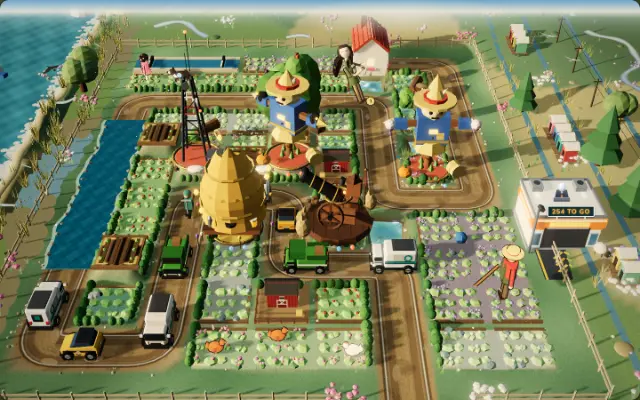
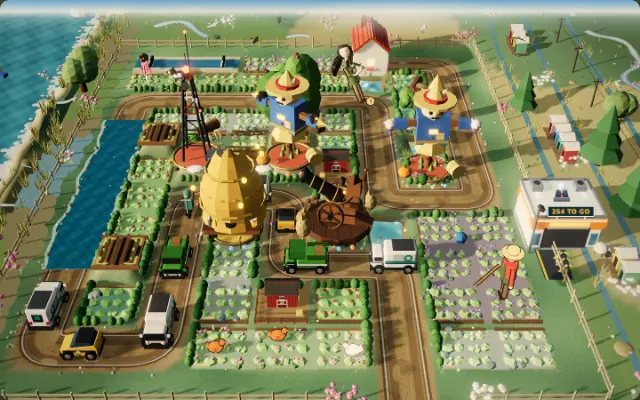
736 slice 1: Hedgerow 2D late waves: a vehicle a tower sprite covers is drawn again over it (l34's lorries under the hedge and duck pond); every '+N' and text float 12 px inside the field, clear of depots, never rising into a lane badge; a gain with nowhere clear joins the nearest; at most 6 numbers
Claude-Session: https://claude.ai/code/session_01SimvMRM53opvH7rkUTpe2W

diff --git a/games/hedgerow/src/render.ts b/games/hedgerow/src/render.ts
@@ -114,6 +114,9 @@ const GAIN_MERGE_PX = 120;
 const GAIN_HOLD = 0.4;
 const GAIN_LIFE = 0.7;
 const GAIN_MIN_PX = 14;
+/** Plan item 736: every number and text float stands this far (CSS px) inside the field's edge, at most MAX_FLOATS live. */
+const FIELD_MARGIN = 12;
+const MAX_FLOATS = 6;
 /** Classic levels' vehicles have no rung colour: a tint per type for the swarm badge's make-up bar. */
 /** Plan item 256: queued vehicles at the gate drawn larger than on the lane (they're parked, the round's cast). */
 const QUEUE_SCALE = 1.4;
@@ -850,6 +853,18 @@ export class Renderer {
     return this.gainDrawn.map((g) => ({ ...g }));
   }
 
+  /** Plan item 736 (tests): the text floats as drawn last frame (CSS px from the canvas corner). */
+  floatRects(): Array<{ x: number; y: number; w: number; h: number; text: string }> {
+    return this.floatDrawn.map((f) => ({ ...f }));
+  }
+
+  private floatDrawn: Array<{ x: number; y: number; w: number; h: number; text: string }> = [];
+
+  /** Plan item 736 (tests): vehicles drawn again last frame over a tower sprite that covered them. */
+  redrawn = 0;
+  /** Plan item 736 (tests): vehicles a tower sprite still covers last frame (0). */
+  underSprite = 0;
+
   private gainDrawn: Array<{ x: number; y: number; w: number; h: number; n: number; size: number }> = [];
 
   private drawGains(game: Game, dt: number, X: (v: number) => number, Y: (v: number) => number, s: number): void {
@@ -859,6 +874,11 @@ export class Renderer {
     const overlaps = (a: Rect, b: Rect) => a.x < b.x + b.w && a.x + a.w > b.x && a.y < b.y + b.h && a.y + a.h > b.y;
     for (const g of this.gains) g.quiet += dt;
     this.gains = this.gains.filter((g) => g.quiet <= GAIN_LIFE && (g.tower === undefined || game.towers.some((tw) => tw.id === g.tower)));
+    // Plan item 736: at most MAX_FLOATS numbers (text floats included); past that the oldest fades out first.
+    const texts = this.parts.filter((p) => p.shape === "text").length;
+    for (let i = 0, over = this.gains.length + texts - MAX_FLOATS; i < this.gains.length && over > 0; i++, over--) this.gains[i]!.quiet = Math.max(this.gains[i]!.quiet, GAIN_HOLD);
+    const M = FIELD_MARGIN;
+    const merged = new Set<Gain>();
     for (const g of this.gains) {
       const text = `+${Math.floor(g.n)}`;
       const fs = Math.max(GAIN_MIN_PX, Math.round(s * (0.26 + Math.min(0.14, Math.log10(1 + g.n) * 0.06)) * g.big));
@@ -875,17 +895,32 @@ export class Renderer {
         const others = this.gains.filter((o) => o !== g && o.placed);
         const clear = (dx: number, dy: number) => {
           const b = box(g.x + dx, g.y + dy);
-          if (b.x < 2 || b.y < 2 || b.x + b.w > this.cssW - 2 || b.y + b.h > this.cssH - 2) return false;
-          if ([this.vehicleBoxes, towers, this.badgeBoxes, this.barnBoxes].some((boxes) => boxes.some((v) => overlaps(b, v)))) return false;
+          if (b.x < M || b.y < M || b.x + b.w > this.cssW - M || b.y + b.h > this.cssH - M) return false;
+          if ([this.vehicleBoxes, towers, this.badgeBoxes, this.barnBoxes, this.depotBoxes].some((boxes) => boxes.some((v) => overlaps(b, v)))) return false;
           return others.every((o) => Math.hypot(X(o.x + o.dx) - X(g.x + dx), Y(o.y + o.dy) - Y(g.y + dy)) >= GAIN_MERGE_PX);
         };
         const steps: Array<[number, number]> = [[0, 0], [0, -0.5], [0, -1], [-0.9, -0.4], [0.9, -0.4], [-1.3, 0], [1.3, 0], [0, -1.6], [0, 0.8], [-1.2, -1.2], [1.2, -1.2]];
         const ok = steps.find(([dx, dy]) => clear(dx, dy));
         if (ok) [g.dx, g.dy] = ok;
+        else {
+          // Plan item 736: nowhere clear (two '+107's stood side by side at P l34): it joins the nearest number.
+          const host = others.filter((o) => !merged.has(o)).sort((a, b) => Math.hypot(a.x - g.x, a.y - g.y) - Math.hypot(b.x - g.x, b.y - g.y))[0];
+          if (host) {
+            host.n += g.n;
+            host.quiet = Math.min(host.quiet, g.quiet);
+            merged.add(g);
+            ctx.restore();
+            continue;
+          }
+        }
       }
       const rise = this.reducedMotion ? 0 : Math.max(0, g.quiet - GAIN_HOLD) * 0.9;
-      const cx = X(g.x + g.dx);
-      const cy = Y(g.y + g.dy) - rise * s;
+      // Kept FIELD_MARGIN inside the field as it rises (l27's '+57' stood cut at the phone's left edge).
+      const cx = Math.max(M + w / 2, Math.min(this.cssW - M - w / 2, X(g.x + g.dx)));
+      let cy = Math.max(M + h / 2, Math.min(this.cssH - M - h / 2, Y(g.y + g.dy) - rise * s));
+      // and it never rises into a lane's badge or a depot (P l34's '+236' rose into the badge over Hollowell).
+      const risen = { x: cx - w / 2, y: cy - h / 2, w, h };
+      if (rise > 0 && [this.badgeBoxes, this.depotBoxes].some((boxes) => boxes.some((v) => overlaps(risen, v)))) cy = Math.max(M + h / 2, Math.min(this.cssH - M - h / 2, Y(g.y + g.dy)));
       ctx.globalAlpha = 1 - Math.max(0, (g.quiet - GAIN_HOLD) / (GAIN_LIFE - GAIN_HOLD));
       ctx.textAlign = "center";
       ctx.textBaseline = "middle";
@@ -898,9 +933,13 @@ export class Renderer {
       ctx.restore();
       this.gainDrawn.push({ x: cx - w / 2, y: cy - h / 2, w, h, n: Math.floor(g.n), size: fs });
     }
+    if (merged.size) this.gains = this.gains.filter((g) => !merged.has(g));
   }
 
   private float(x: number, y: number, text: string, color: string, big = 1): void {
+    // Plan item 736: at most MAX_FLOATS text floats; a new one retires the oldest.
+    const live = this.parts.filter((p) => p.shape === "text");
+    if (live.length >= MAX_FLOATS) live[0]!.age = live[0]!.life;
     this.parts.push({ x, y, vx: 0, vy: -0.9, g: 0, age: 0, life: 1.1, size: 0.3, color, shape: "text", rot: 0, vr: 0, text, big });
   }
 
@@ -1161,7 +1200,9 @@ export class Renderer {
     }
 
     // Sprites in depth order.
-    const items: Array<{ y: number; draw: () => void }> = [];
+    // Plan item 736: a vehicle's box (`veh`) and a tower's sprite box (`cover`): a vehicle a tower sprite drawn later
+    // covers is drawn again over it (l34's lorries passed under the hedge and the duck pond at the junction).
+    const items: Array<{ y: number; draw: () => void; veh?: Rect; cover?: Rect }> = [];
     const end = level.path[level.path.length - 1]!;
     const side = end[0] >= level.cols - 2 ? -1 : 1;
     items.push({
@@ -1210,8 +1251,12 @@ export class Renderer {
       if (age !== undefined) this.built.set(tw.id, age + dt);
       const pop = age !== undefined && age < 0.35 && !this.reducedMotion ? popScale(age / 0.35) : 1;
       this.fired.set(tw.id, since + dt);
+      const reach = towerReach(tw.kind, tw.tier, tw.path);
+      const up = Math.max(1.05, reach.up * FIELD_TOWER) * s;
+      const half = Math.max(0.5, reach.half * FIELD_TOWER) * s;
       items.push({
         y: tw.row + 0.8,
+        cover: { x: X(tw.col + 0.5) - half, y: Y(tw.row + 0.5) - up, w: half * 2, h: s * 0.5 + up },
         draw: () => {
           if (pop !== 1) {
             ctx.save();
@@ -1464,6 +1509,7 @@ export class Renderer {
       const heading = runOf(level, { dist: this.lay.slots.get(e.id)?.dist ?? e.dist, lane: e.lane ?? null });
       items.push({
         y: gy,
+        veh: this.vehicleBox(level, e, X, Y, s),
         draw: () => {
           drawEnemy(
             ctx,
@@ -1663,6 +1709,24 @@ export class Renderer {
     items.sort((a, b) => a.y - b.y);
     this.columnChips = [];
     for (const it of items) it.draw();
+    this.redrawn = 0;
+    this.underSprite = 0;
+    const meets = (v: Rect, c: Rect) => v.x < c.x + c.w && v.x + v.w > c.x && v.y < c.y + c.h && v.y + v.h > c.y;
+    const last = items.map((_, i) => i);
+    for (let i = 0; i < items.length; i++) {
+      const v = items[i]!.veh;
+      if (!v) continue;
+      if (items.slice(i + 1).some((it) => it.cover && meets(v, it.cover))) {
+        items[i]!.draw();
+        last[i] = items.length;
+        this.redrawn++;
+      }
+    }
+    // (tests) a vehicle a tower sprite drawn after its last draw still meets
+    for (let i = 0; i < items.length; i++) {
+      const v = items[i]!.veh;
+      if (v && items.some((it, j) => j > last[i]! && it.cover && meets(v, it.cover))) this.underSprite++;
+    }
     for (const chip of this.columnChips) chip();
     // Plan item 706: the pooled gains, each one "+N" that counts up while it keeps paying, then rises and fades.
     this.drawGains(game, dt, X, Y, s);
@@ -2495,7 +2559,8 @@ export class Renderer {
       const fs = Math.max(11, s * 0.24);
       ctx.font = `800 ${fs}px ${FONT}`;
       const w = ctx.measureText(label).width + fs * 0.9;
-      const cx = Math.max(4, Math.min(this.cssW - w - 4, X(p.x) + s * 0.42));
+      // Plan item 736: FIELD_MARGIN inside the field's edge (P l27's '+1' and '+9' were cut at the left).
+      const cx = Math.max(FIELD_MARGIN, Math.min(this.cssW - w - FIELD_MARGIN, X(p.x) + s * 0.42));
       const cy = Y(p.y + 0.2) - layers * s * 0.08 - fs * 0.7;
       ctx.fillStyle = "rgba(255,250,238,0.95)";
       ctx.strokeStyle = "rgba(70,48,30,0.85)";
@@ -3061,6 +3126,7 @@ export class Renderer {
 
   private drawParticles(dt: number, X: (v: number) => number, Y: (v: number) => number, s: number): void {
     const { ctx } = this;
+    this.floatDrawn = [];
     for (const p of this.parts) {
       p.age += dt;
       p.vy += p.g * dt;
@@ -3120,8 +3186,13 @@ export class Renderer {
           ctx.lineWidth = Math.max(3, size * 0.22);
           ctx.strokeStyle = "rgba(43,35,32,0.85)";
           ctx.lineJoin = "round";
-          ctx.strokeText(p.text!, X(p.x), Y(p.y));
-          ctx.fillText(p.text!, X(p.x), Y(p.y));
+          // Plan item 736: kept FIELD_MARGIN inside the field, like the gains.
+          const half = ctx.measureText(p.text!).width / 2 + size * 0.15;
+          const tx = Math.max(FIELD_MARGIN + half, Math.min(this.cssW - FIELD_MARGIN - half, X(p.x)));
+          const ty = Math.max(FIELD_MARGIN + size * 0.55, Math.min(this.cssH - FIELD_MARGIN - size * 0.55, Y(p.y)));
+          ctx.strokeText(p.text!, tx, ty);
+          ctx.fillText(p.text!, tx, ty);
+          this.floatDrawn.push({ x: tx - half, y: ty - size * 0.55, w: half * 2, h: size * 1.1, text: p.text! });
           break;
         }
         default:

diff --git a/e2e-site/hedgerow-late-labels.spec.ts b/e2e-site/hedgerow-late-labels.spec.ts
@@ -1,0 +1,65 @@
+import { expect, test } from '@playwright/test'
+
+// Plan item 736: on level 34's late field (2D, the sandbox, twelve towers along the lanes and eight rounds sent),
+// every "+N" gain and text float stands 12 px inside the field, no two of them meet, at most 6 are live, and no
+// vehicle on the road is left under a tower's sprite (l34's lorries passed under the hedge and the duck pond).
+type R = { x: number; y: number; w: number; h: number }
+type HG = {
+  game(): { level: { path: number[][]; path2?: number[][]; rows: number; cols: number; towers: string[] }; wave: number }
+  place(g: unknown, kind: string, c: number, r: number): { ok: boolean }
+  arm?(g: unknown): void
+  sendWave(g: unknown, forced?: boolean): void
+  renderer(): { gainRects(): R[]; floatRects(): R[]; redrawn: number; underSprite: number }
+}
+
+test('level 34 late wave: the numbers stay apart and inside, the convoy over the towers', async ({ page }) => {
+  test.setTimeout(180_000)
+  const stars = Object.fromEntries(Array.from({ length: 37 }, (_, i) => [String(i + 1), 3]))
+  const tips = { build: true, hero: true, early: true, pie: true, spec: true, neighbours: true, rally: true, bridge: true }
+  await page.goto('/hedgerow/?sandbox=1&2d')
+  await page.evaluate(([s, t]) => localStorage.setItem('hedgerow:v1', JSON.stringify({ version: 3, stars: s, seenBefore: { 34: true }, seen: {}, tips: t })), [stars, tips] as const)
+  await page.goto('/hedgerow/?sandbox=1&2d&level=34')
+  await page.waitForFunction(() => !!(window as unknown as { hedgerow?: HG }).hedgerow?.game(), null, { timeout: 90_000 })
+  await page.addStyleTag({ content: '#intro { display: none !important; }' })
+  await page.evaluate(() => {
+    const h = (window as unknown as { hedgerow: HG }).hedgerow
+    const g = h.game()
+    const path = [...g.level.path, ...(g.level.path2 ?? [])]
+    const near = (c: number, r: number) => Math.min(...path.map(([pc, pr]) => Math.abs(pc! - c) + Math.abs(pr! - r)))
+    const spots: number[][] = []
+    for (let r = 0; r < g.level.rows; r++) for (let c = 0; c < g.level.cols; c++) spots.push([near(c, r), c, r])
+    spots.sort((a, b) => a[0]! - b[0]! || a[1]! - b[1]!)
+    let n = 0
+    for (const [, c, r] of spots) {
+      if (n >= 12) break
+      if (h.place(g, g.level.towers[n % g.level.towers.length]!, c!, r!).ok) n++
+    }
+    h.arm?.(g)
+    for (let i = 0; i < 8; i++) h.sendWave(g, true)
+  })
+  const M = 12
+  const meet = (a: R, b: R) => a.x < b.x + b.w && a.x + a.w > b.x && a.y < b.y + b.h && a.y + a.h > b.y
+  let labels = 0
+  let redrawn = 0
+  for (let i = 0; i < 24; i++) {
+    await page.waitForTimeout(500)
+    const f = await page.evaluate(() => {
+      const r = (window as unknown as { hedgerow: HG }).hedgerow.renderer()
+      const c = document.getElementById('canvas')!.getBoundingClientRect()
+      return { w: c.width, h: c.height, all: [...r.gainRects(), ...r.floatRects()], redrawn: r.redrawn, under: r.underSprite }
+    })
+    labels += f.all.length
+    redrawn = Math.max(redrawn, f.redrawn)
+    expect(f.under, 'a vehicle left under a tower sprite').toBe(0)
+    expect(f.all.length).toBeLessThanOrEqual(6)
+    for (const [k, a] of f.all.entries()) {
+      expect(a.x, 'inside the left edge').toBeGreaterThanOrEqual(M - 0.5)
+      expect(a.y, 'inside the top edge').toBeGreaterThanOrEqual(M - 0.5)
+      expect(a.x + a.w, 'inside the right edge').toBeLessThanOrEqual(f.w - M + 0.5)
+      expect(a.y + a.h, 'inside the foot').toBeLessThanOrEqual(f.h - M + 0.5)
+      for (const b of f.all.slice(k + 1)) expect(meet(a, b), `${JSON.stringify(a)} meets ${JSON.stringify(b)}`).toBe(false)
+    }
+  }
+  expect(labels, 'the late field pays').toBeGreaterThan(10)
+  expect(redrawn, 'some vehicle passed a tower sprite').toBeGreaterThan(0)
+})
